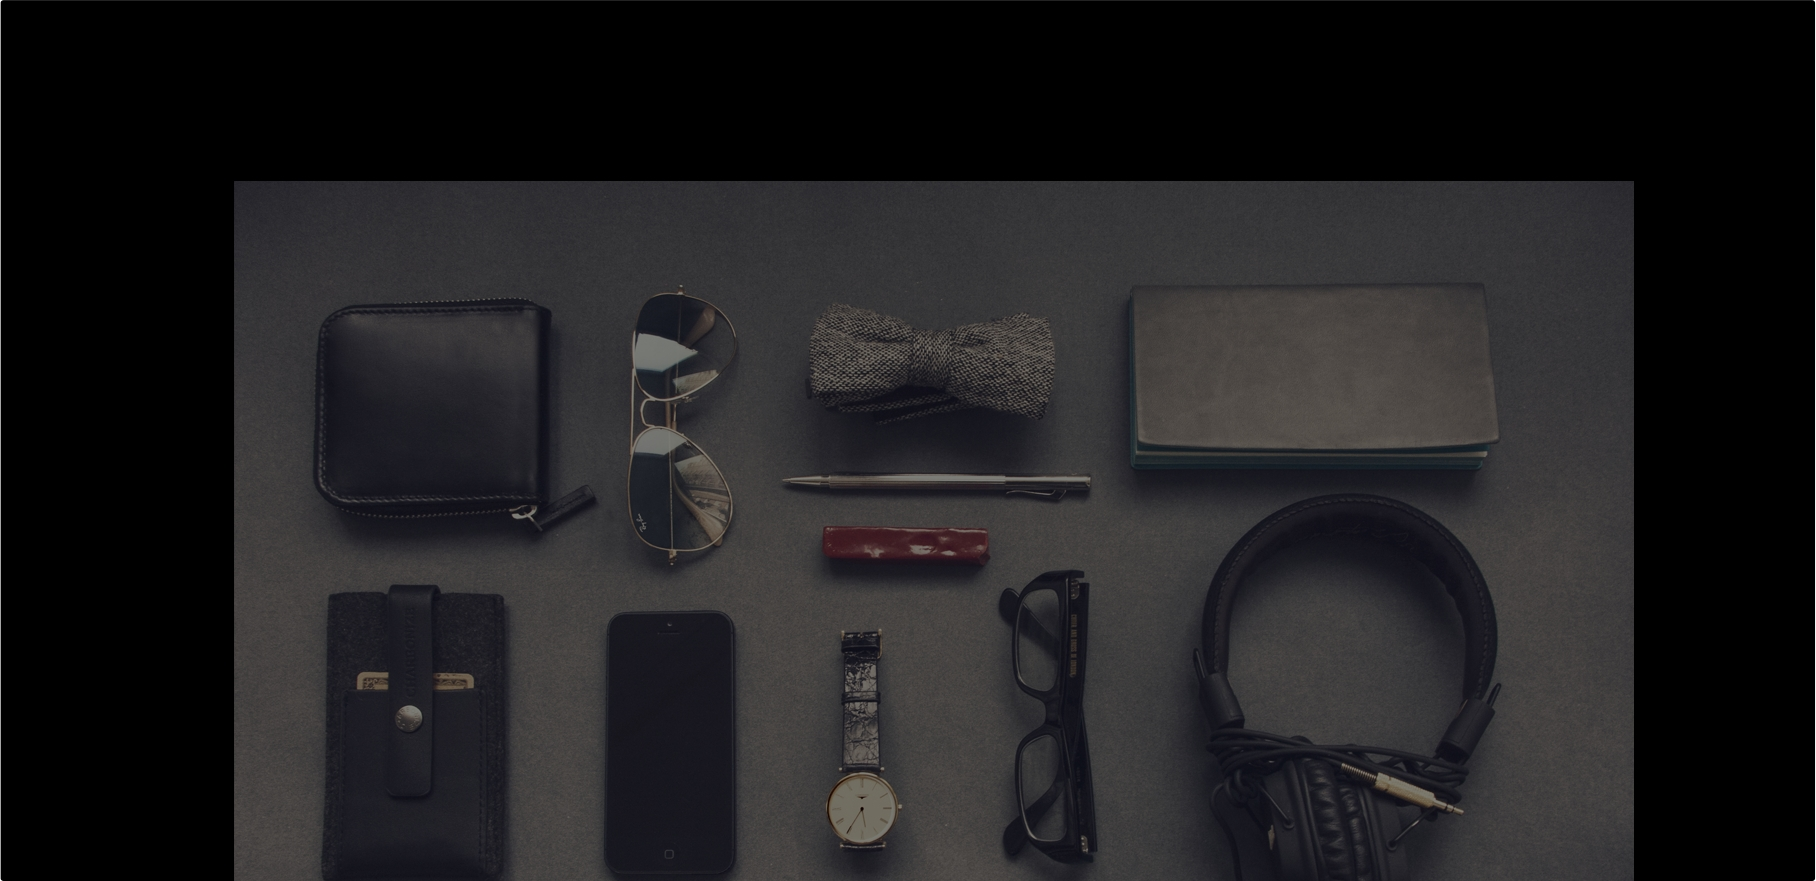
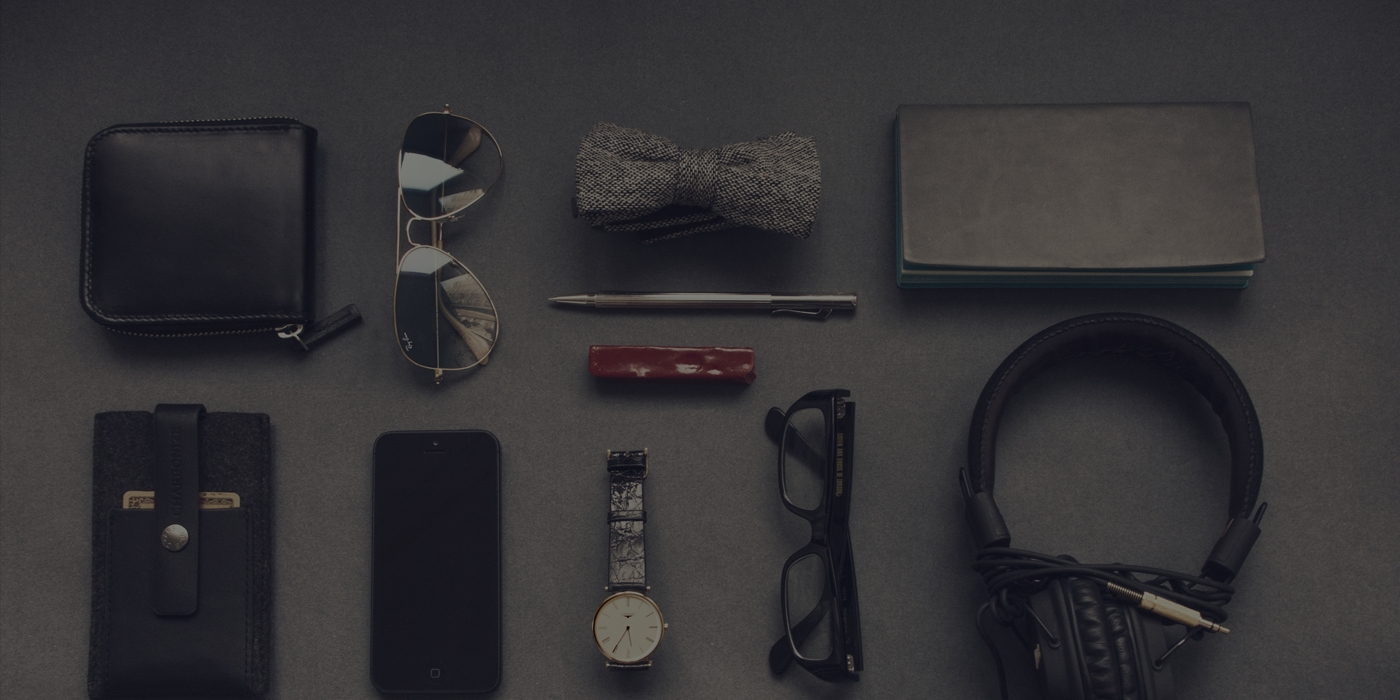
2
+Стилизовал <header>
+"Hover" эффекты в <header> на кнопке и пунктах навигации
+Обновил разметку <header> контейнерами wrapper и container. Пункты навигации в списке добавил ссылки.
+Обновил  фоновое изображение для <header>

diff --git a/css/style.css b/css/style.css
@@ -1,4 +1,84 @@
 body {
     margin: 0;
     padding: 0;
+    font-family: "Arial", sans-serif;
+    font-size: 14px;
+    font-weight: 400;
+    width: 100%;
+}
+header .wrapper {
+    padding-left: 230px;
+    padding-right: 230px;
+}
+header {
+    background: #333335 url(../img/header-bg.jpg) no-repeat top center;
+    color: #fff;
+}
+ header .container {
+    padding: 44px 2px 116px 7px;
+}
+nav {
+    display: flex;
+    
+}
+nav img {
+    width: 79px;
+    height: 28px;
+    margin-right: 376px;
+}
+.header-nav {
+    display: flex;
+    margin: 0;
+    padding: 0;
+    margin-top: 10px;
+    list-style: none;
+}
+.header-nav li {
+    text-transform: uppercase;
+    margin-right: 42px;
+}
+.header-nav li:last-child {
+    margin-right: 0;
+}
+.header-nav a {
+    text-decoration: none;
+    color: #fff;
+}
+.header-nav a:hover {
+    text-decoration: underline;
+}
+.header-welcome {
+    margin: 0;
+    margin-top: 200px;
+    font-size: 40px;
+    text-transform: uppercase;
+    text-align: center;
+}
+header h1 {
+    margin: 0;
+    margin-top: 51px;
+    text-align: center;
+    font-size: 75px;
+    font-weight: 700;
+    text-transform: uppercase;
+}
+.header-btn {
+    display: inline-block;
+    width: 240px;
+    margin-top: 59px;
+    margin-left: 350px;
+    padding-top: 24px;
+    padding-bottom: 26px;
+    background-color: #fed136;
+    color: #484543;
+    text-align: center;
+    text-transform: uppercase;
+    text-decoration: none;
+    font-size: 18px;
+    font-weight: bold;
+    border-radius: 5px;
+}
+.header-btn:hover {
+    text-decoration: underline;
+    background-color: #fed172;
 }

diff --git a/index.html b/index.html
@@ -8,19 +8,23 @@
 </head>
 <body>
     <header>
+      <div class="wrapper">
+       <div class="container">
         <nav>
             <img src="img/logo.png" alt="Logo image">
-            <ul>
-                <li>Home</li>
-                <li>Services</li>
-                <li>Portfolio</li>
-                <li>About</li>
-                <li>Contact</li>
+            <ul class="header-nav">
+                <li><a href="#">Home</a></li>
+                <li><a href="#">Services</a></li>
+                <li><a href="#">Portfolio</a></li>
+                <li><a href="#">About</a></li>
+                <li><a href="#">Contact</a></li>
             </ul>
         </nav>
         <p class="header-welcome">Welcome To Our Studio!</p>
         <h1>It’s nice to Meet you</h1>
         <a href="#" class="header-btn">Tell Me More</a>
+        </div>
+        </div>
     </header>
     <section class="services">
         <h2>Services</h2>
